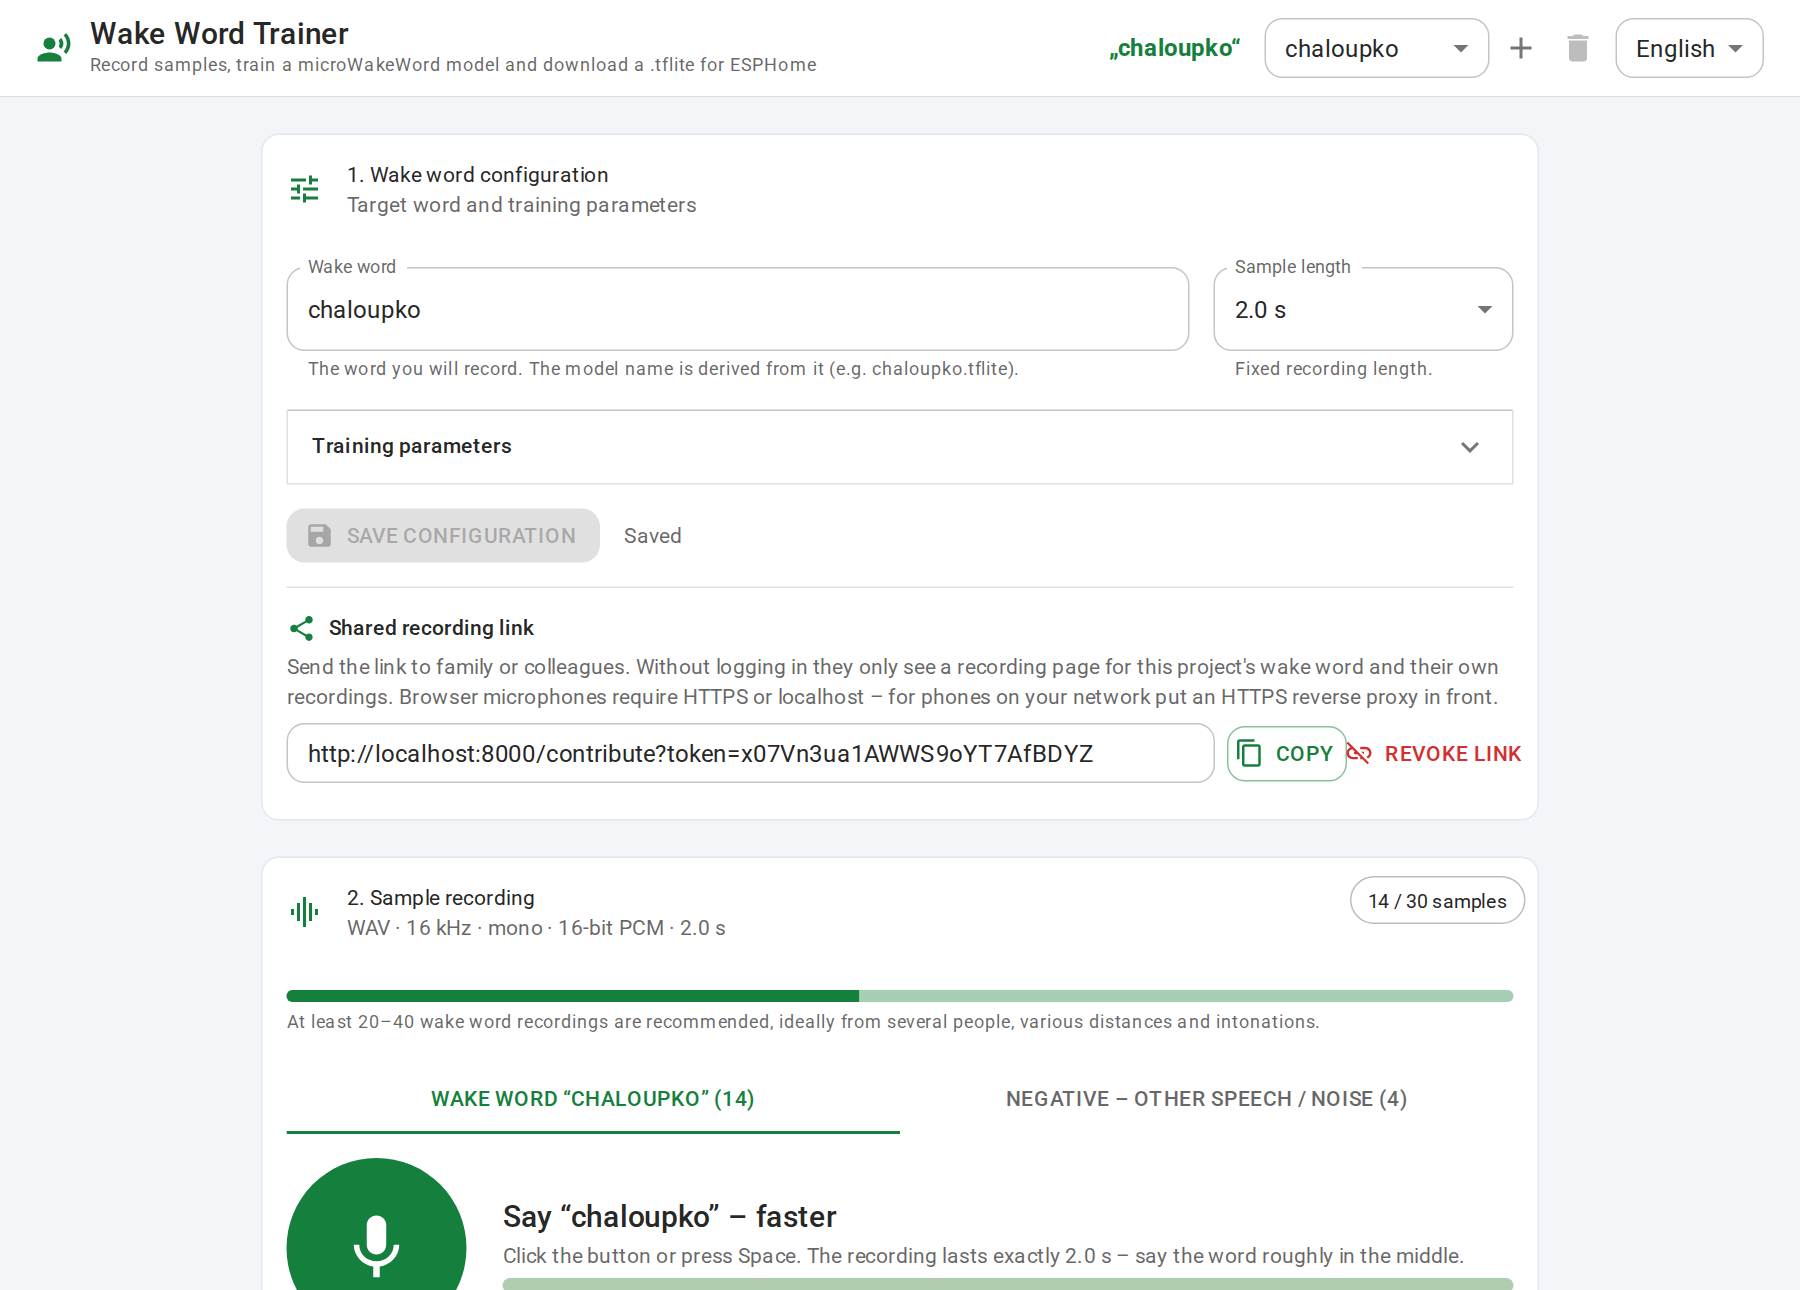
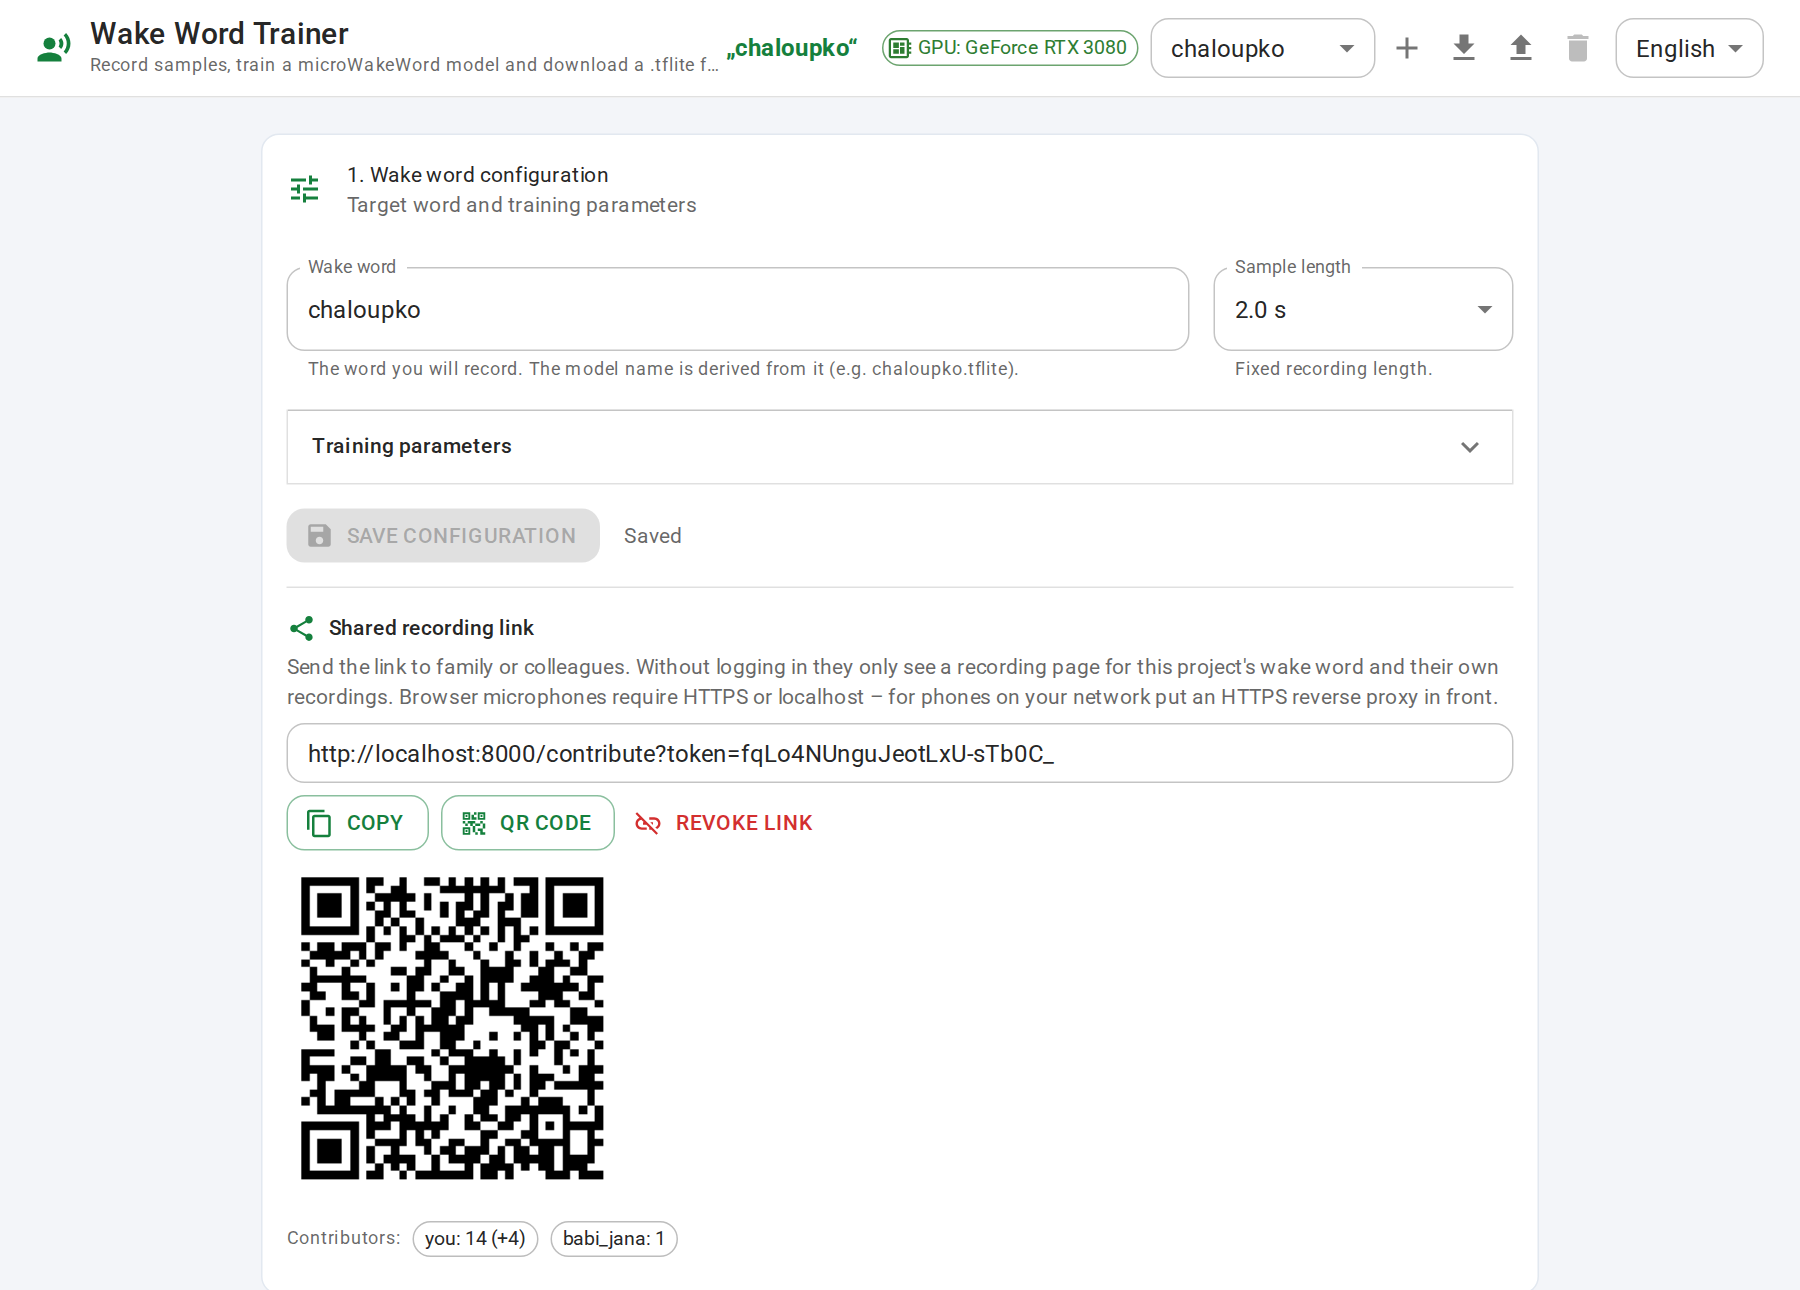
README: new features, Coolify/LXC GPU guide; screenshots; share section layout; webhook test
Claude-Session: https://claude.ai/code/session_01MFn3rASpeMSKCf1XtfCwg7

diff --git a/frontend/src/components/ConfigCard.tsx b/frontend/src/components/ConfigCard.tsx
@@ -197,17 +197,19 @@ function ShareSection({ project, onSaved, onError }: { project: Project; onSaved
         {t("share.help")} {t("share.https")}
       </Typography>
       {link ? (
-        <Stack direction={{ xs: "column", sm: "row" }} spacing={1} alignItems={{ sm: "center" }}>
+        <Stack spacing={1}>
           <TextField size="small" value={link} fullWidth InputProps={{ readOnly: true }} onFocus={(e) => e.target.select()} />
-          <Button variant="outlined" startIcon={<ContentCopyIcon />} onClick={copy} sx={{ whiteSpace: "nowrap" }}>
-            {copied ? t("share.copied") : t("share.copy")}
-          </Button>
-          <Button startIcon={<QrCode2Icon />} onClick={() => setShowQr((v) => !v)} sx={{ whiteSpace: "nowrap" }} disabled={!qr}>
-            {t("share.qr")}
-          </Button>
-          <Button color="error" startIcon={<LinkOffIcon />} onClick={() => toggle(false)} disabled={busy} sx={{ whiteSpace: "nowrap" }}>
-            {t("share.disable")}
-          </Button>
+          <Stack direction="row" spacing={1} flexWrap="wrap" useFlexGap>
+            <Button variant="outlined" startIcon={<ContentCopyIcon />} onClick={copy}>
+              {copied ? t("share.copied") : t("share.copy")}
+            </Button>
+            <Button variant="outlined" startIcon={<QrCode2Icon />} onClick={() => setShowQr((v) => !v)} disabled={!qr}>
+              {t("share.qr")}
+            </Button>
+            <Button color="error" startIcon={<LinkOffIcon />} onClick={() => toggle(false)} disabled={busy}>
+              {t("share.disable")}
+            </Button>
+          </Stack>
         </Stack>
       ) : (
         <Button variant="outlined" startIcon={<ShareIcon />} onClick={() => toggle(true)} disabled={busy}>

diff --git a/frontend/src/App.tsx b/frontend/src/App.tsx
@@ -92,7 +92,7 @@ function Main() {
             </Typography>
           </Box>
           {project && (
-            <Typography variant="subtitle1" fontWeight={600} color="primary" sx={{ mr: 2, display: { xs: "none", md: "block" } }}>
+            <Typography variant="subtitle1" fontWeight={600} color="primary" sx={{ mr: 2, display: { xs: "none", lg: "block" } }}>
               „{project.wake_word}“
             </Typography>
           )}

diff --git a/backend/tests/test_training_parse.py b/backend/tests/test_training_parse.py
@@ -39,3 +39,29 @@ def test_interrupted_job_detected_after_restart(tmp_path):
     summary = job_summary(job_dir, running_job_id=None)
     assert summary["status"] == "interrupted" and summary["resumable"] is True
     assert job_summary(job_dir, running_job_id="20260101_000000_abc")["status"] == "running"
+
+
+def test_webhook_payload(tmp_path, monkeypatch):
+    """The webhook receives a JSON summary; network errors are swallowed (logged only)."""
+    import json
+
+    from app import training
+
+    job_dir = tmp_path / "20260101_000000_abc"
+    job_dir.mkdir()
+    (job_dir / "job.json").write_text(json.dumps({"job_id": "20260101_000000_abc", "wake_word": "hej", "slug": "hej"}))
+    calls = []
+    monkeypatch.setattr(training.requests, "post", lambda url, json, timeout: calls.append((url, json)) or type("R", (), {"status_code": 200})())
+    monkeypatch.setenv("WEBHOOK_URL", "http://hook.invalid/x")
+    monkeypatch.setenv("PUBLIC_URL", "https://trainer.example/")
+    training.manager._notify_webhook(job_dir, "done", None)
+    assert calls and calls[0][0] == "http://hook.invalid/x"
+    payload = calls[0][1]
+    assert payload["event"] == "training_finished" and payload["status"] == "done"
+    assert payload["model_url"] == "https://trainer.example/api/jobs/20260101_000000_abc/model"
+
+    def boom(*a, **k):
+        raise OSError("unreachable")
+
+    monkeypatch.setattr(training.requests, "post", boom)
+    training.manager._notify_webhook(job_dir, "failed", "x")  # must not raise

diff --git a/README.md b/README.md
@@ -23,12 +23,22 @@ and testing the result live in the browser. The output `.tflite` + manifest work
   model with the same micro-frontend and sliding-window average as ESPHome. Evaluate the model on all stored recordings
   to see which samples are missed and which negatives trigger it.
 - **ESPHome manifest** – `probability_cutoff` is derived from the test-set ROC curve; tune it in the test card and copy it over.
-- **Multiple projects** – each wake word lives in its own project (recordings, runs, settings); switch in the header.
+- **Multiple projects** – each wake word lives in its own project (recordings, runs, settings); switch in the header,
+  export/import a whole project as a ZIP for backups or moving between machines.
 - **Shared recording link** – generate a link (`/contribute?token=…`) so family or colleagues can record samples for a
   project from their own device without logging in; they only see their own recordings.
+- **Recording modes** – tag samples as *far away*, *with background noise*, *whisper* or *loud*; the evaluation shows per-mode
+  results so you see where the model fails. Contributors get a per-person target and a QR code for the link.
+- **Real rooms and noise** – MIT room impulse responses (auto-downloaded) reverberate your samples during augmentation;
+  optional ESC-50 environmental sounds and FMA music serve as real background and extra negatives.
 - **Hard negatives** – word fragments and swapped halves of your recordings are used as extra negatives so similar words
   do not trigger the model (optional).
-- **Charts** – validation loss and recall/accuracy over steps, test-set ROC curve.
+- **Automatic threshold** – after training the model is run over your own recordings and `probability_cutoff` is chosen so
+  that ~95 % of the wake word samples pass while every negative recording stays below.
+- **Charts and comparison** – validation loss and recall/accuracy over steps, test-set ROC curve; pick two runs to compare
+  parameters, metrics and per-recording results side by side.
+- **Notifications** – browser notification when a run finishes, plus an optional webhook (e.g. Home Assistant) with a JSON summary.
+- **GPU indicator** – the header shows whether a GPU is visible to the container and whether the TensorFlow build can use it.
 - **Robust runs** – an interrupted run (container restart) is detected and can be resumed from its checkpoint; old runs
   are pruned automatically (`KEEP_JOBS`), heavy intermediate files are removed after a successful run.
 - **Export** – ZIP bundle with the `.tflite`, the ESPHome manifest, an example ESPHome YAML and the training log.
@@ -64,7 +74,23 @@ Open <http://localhost:8000>. Everything (recordings, datasets, feature cache, m
 **GPU is optional.** The model is tiny (~30 k parameters); the default 4,000 steps take minutes on a CPU. The first run
 additionally pre-computes spectrograms of the negative dataset once (~1–2 min, cached in `data/features_cache`).
 
-Optional Basic auth: set `APP_USER` / `APP_PASSWORD` (see `.env.example`).
+Optional Basic auth: set `APP_USER` / `APP_PASSWORD` (see `.env.example`). `PUBLIC_URL` is used in webhook payloads,
+`WEBHOOK_URL` is a global fallback for the per-project webhook.
+
+### Coolify / Proxmox LXC with a GPU
+
+`docker-compose.coolify.yml` is a single-file compose for Coolify's *Docker Compose* build pack with NVIDIA GPU reservation.
+For a Coolify instance inside a Proxmox LXC you need, in this order:
+
+1. NVIDIA driver on the Proxmox host (`nvidia-smi` works there).
+2. GPU devices passed into the LXC: in `/etc/pve/lxc/<id>.conf` add `lxc.cgroup2.devices.allow: c 195:* rwm`,
+   `c 509:* rwm` (check `ls -l /dev/nvidia*` for the major numbers) and `lxc.mount.entry` lines for `/dev/nvidia0`,
+   `/dev/nvidiactl`, `/dev/nvidia-uvm`, `/dev/nvidia-uvm-tools`, `/dev/nvidia-modeset`.
+3. Inside the LXC the **same driver version** installed with `--no-kernel-module`, then `nvidia-container-toolkit` and
+   `nvidia-ctk runtime configure --runtime=docker` for the Docker that Coolify uses. `docker run --rm --gpus all nvidia/cuda:12.5.0-base-ubuntu22.04 nvidia-smi` must work.
+4. In Coolify create a *Docker Compose* resource from this repository pointing at `docker-compose.coolify.yml`, set a domain
+   with HTTPS (needed for the microphone) and add `APP_PASSWORD`. The header chip shows *GPU: …* when everything is wired up;
+   without the GPU the same image still trains on the CPU.
 
 ## Workflow
 
@@ -97,7 +123,10 @@ Lower `probability_cutoff` if the word is hard to trigger; raise it on false act
 | GET / PUT | `/api/config` | Current project configuration (wake word, training parameters) |
 | GET / POST / DELETE | `/api/projects` · `/api/projects/{id}/select` · `/api/projects/{id}/share` | Projects and sharing links |
 | GET / POST | `/api/contribute/info` · `/api/contribute/recordings` (`?token=…&name=…`) | Contributor (record-only) access |
-| GET | `/api/recordings?kind=positive\|negative` | Recordings incl. waveform peaks and quality analysis |
+| GET | `/api/recordings?kind=positive\|negative` · `/api/recordings/contributors` | Recordings incl. waveform peaks, quality analysis, tags; per-contributor counts |
+| PUT | `/api/recordings/{kind}/{id}/tag` | Set the recording mode tag |
+| GET | `/api/system` | GPU / TensorFlow CUDA / CPU info, device used by the last training |
+| GET / POST | `/api/projects/{id}/export` · `/api/projects/import` | Project ZIP export / import |
 | POST | `/api/recordings` | Upload (multipart `file`, `kind`) → `/data/positive_samples` or `/data/negative_samples` |
 | GET | `/api/recordings/{kind}/{id}` | Play a WAV |
 | DELETE | `/api/recordings/{kind}/{id}` | Soft delete (trash), `POST …/restore` restores |
